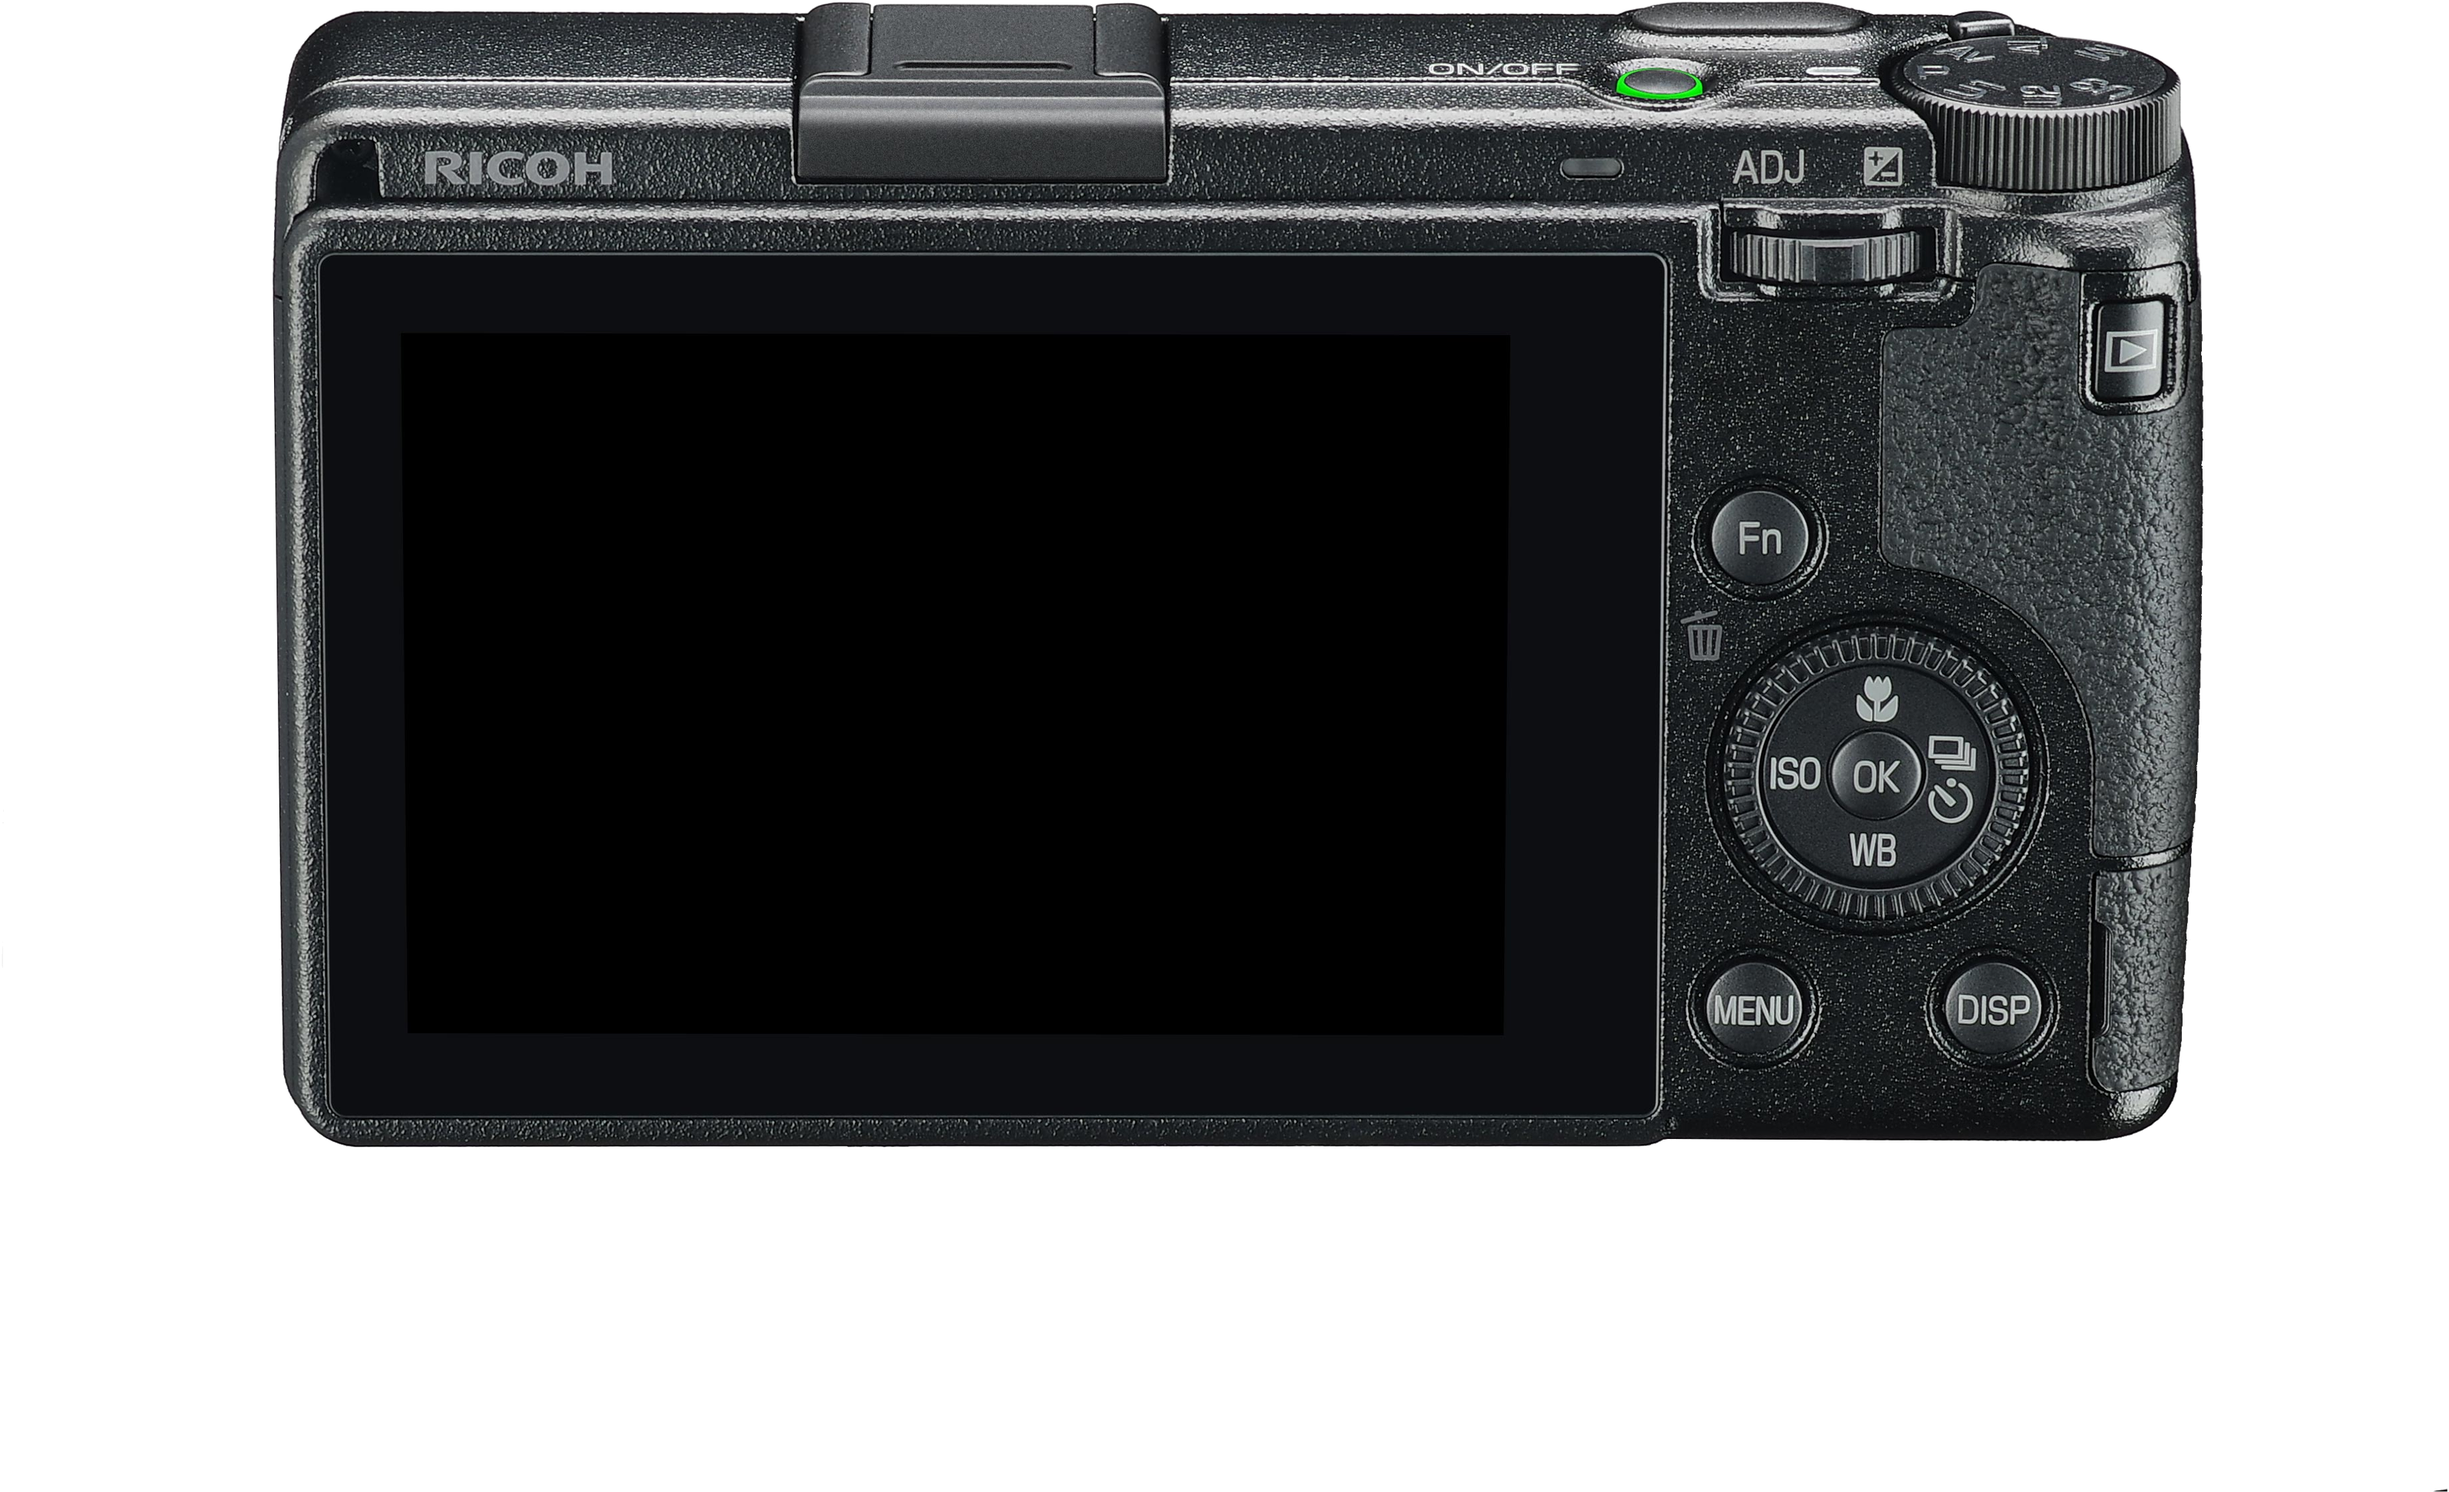
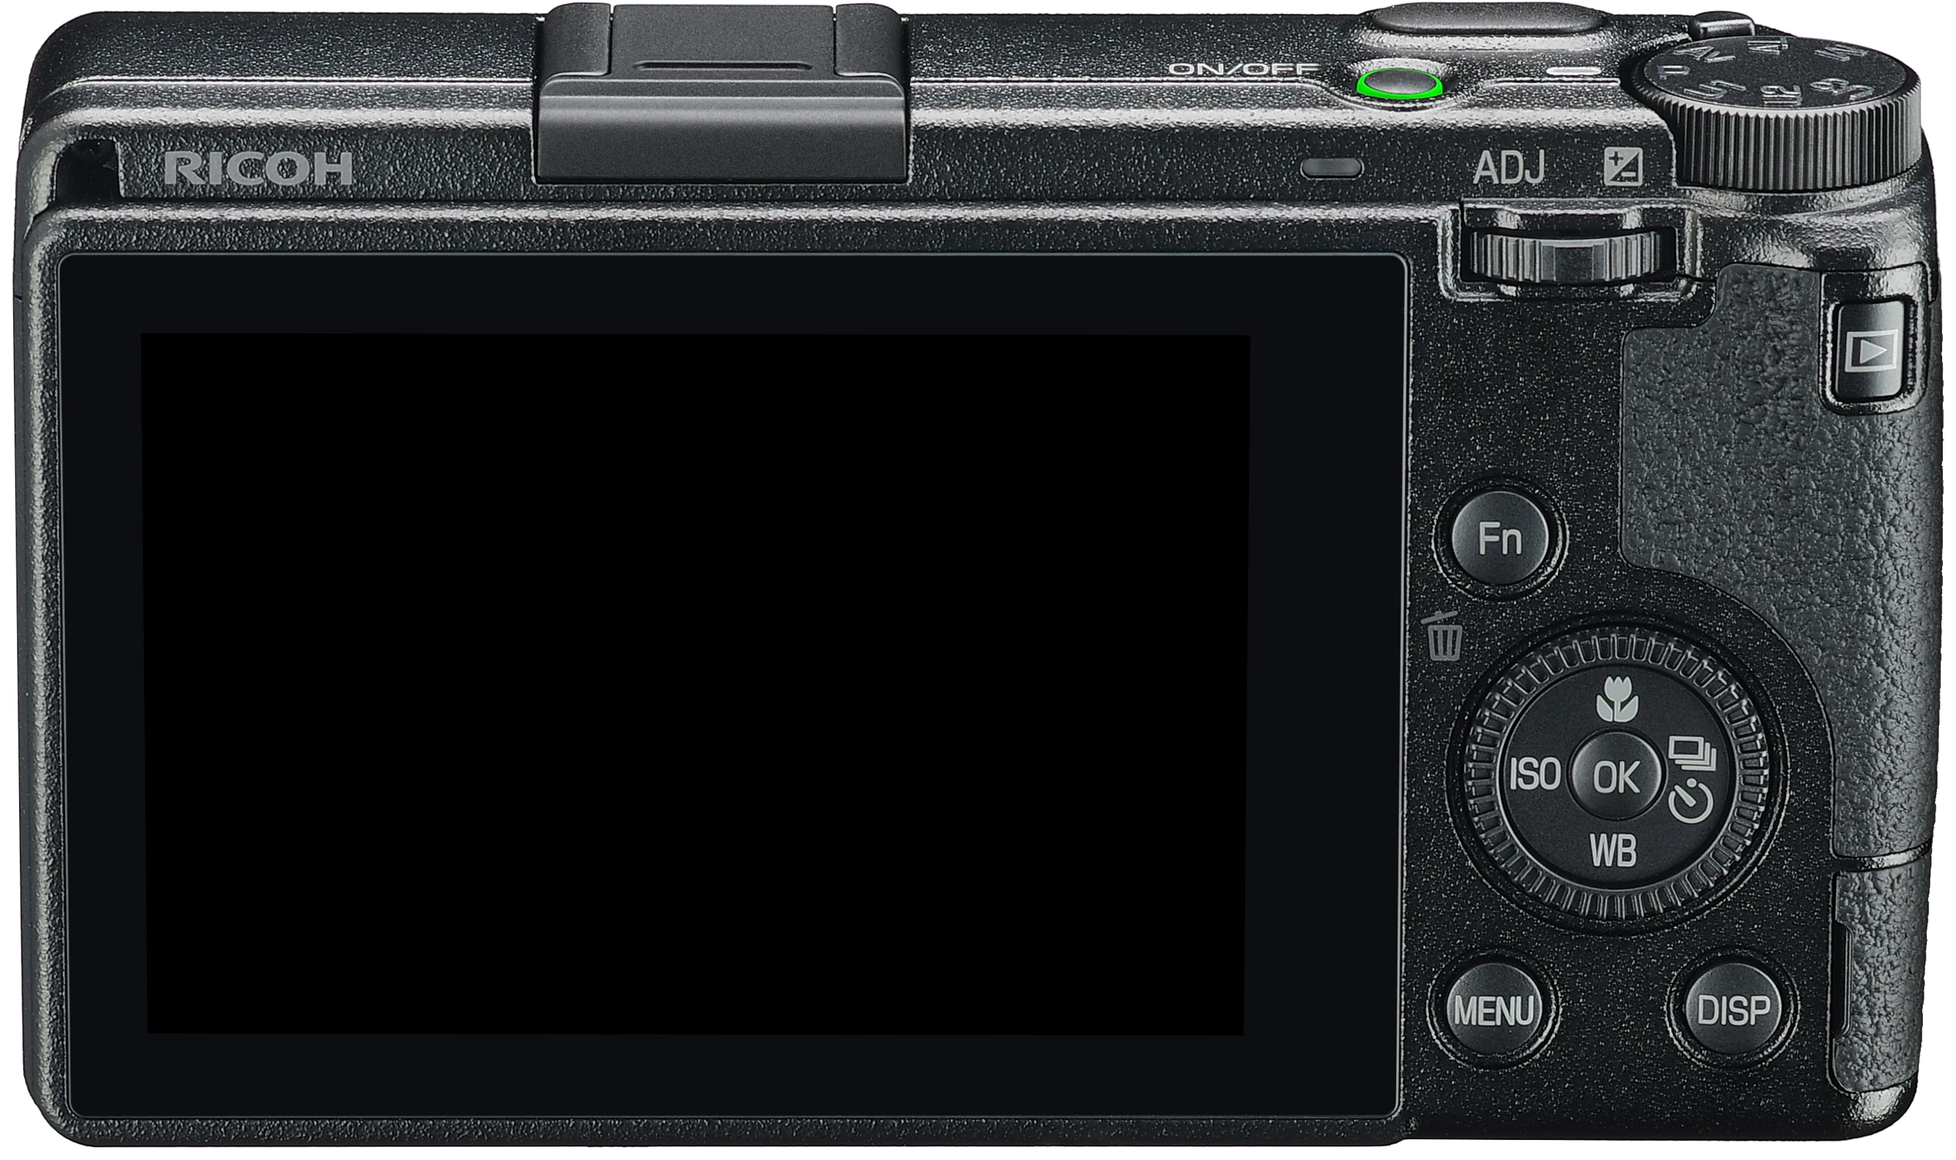
fix(camera): 重裁 GR III/GR IIIx 背面图，修复相机区偏上
两张素材底部残留约 23% 透明空白，右下角还有孤立杂点，导致旧的裁边逻辑
把整张图误判为已裁紧；版面按整图居中后相机视觉上偏上、尺寸也偏小。

- trim_assets.py 改为按 alpha/白底差异 + 行/列占用率求内容边界，忽略噪点；
  新增 --audit / --force，裁剪时同步平移 screen.quad 与 screen.opening
- 重裁 ricoh gr3 / gr3x（3191x1944 -> 2548x1511），更新 catalog 尺寸与屏幕标注

diff --git a/tools/trim_assets.py b/tools/trim_assets.py
@@ -1,12 +1,16 @@
 #!/usr/bin/env python3
-"""裁掉相机背面图四周的白边，让版面紧凑（参考样图相机占比大）。
+"""裁掉相机背面图四周的空白，让版面紧凑并让机身真正居中。
 
-- 白边判定：从四边向内扫描「接近纯白」的行/列
+- 内容判定：有透明底时按 alpha，白底图按「与纯白的差值」
+- 抗噪：按行/列占用率（≥1%，至少 8 像素）判定内容边界，
+  远处一两个孤立的噪点不会再被当成机身，把整张图「焊」在原地
 - 首次运行把原图备份为 back_untrimmed.<ext>
-- 裁剪后同步更新 meta.json 的 width/height 和 screen.quad（平移坐标）
+- 裁剪后同步更新 meta.json 的 width/height、screen.quad 与 screen.opening
 - 裁剪过度（比如把机身裁掉）会拒绝执行并告警
 
-用法：tools/trim_assets.py [brand/slug ...] [--pad 20]
+用法：
+  tools/trim_assets.py [brand/slug ...] [--pad 20] [--force]
+  tools/trim_assets.py --audit          # 只体检：打印每台机身的居中偏移，不改文件
 """
 import json
 import os
@@ -17,71 +21,123 @@ from PIL import Image, ImageChops
 ROOT = os.path.dirname(os.path.dirname(os.path.abspath(__file__)))
 ASSETS = os.path.join(ROOT, "assets", "cameras")
 
-WHITE = 245  # 判定白边的灰度阈值
+WHITE = 245  # 白底图的「白」阈值（灰度）
+ALPHA = 16   # 透明底图的「有内容」阈值（低于此的淡投影尾迹忽略）
+OCCUPANCY = 0.01  # 一行/一列至少 1% 像素有内容，才算机身，忽略孤立噪点
+MIN_OCCUPANCY = 8  # 小图兜底：至少 8 个像素
+
+
+def content_mask(img: Image.Image) -> Image.Image:
+    """返回内容掩码（L 模式，255 = 有内容）。"""
+    if img.mode != "RGBA":
+        img = img.convert("RGBA")
+    alpha = img.getchannel("A")
+    if alpha.getextrema()[0] < 250:
+        # 透明底：alpha 就是内容
+        return alpha.point(lambda v: 255 if v > ALPHA else 0)
+    # 白底：与纯白做差
+    gray = img.convert("L")
+    bg = Image.new("L", gray.size, 255)
+    diff = ImageChops.difference(gray, bg)
+    return diff.point(lambda v: 255 if v > (255 - WHITE) else 0)
+
+
+def _occupied_flags(mask: Image.Image, minimum: int) -> list:
+    """逐行判断该行是否有 >= minimum 个内容像素。"""
+    w, h = mask.size
+    data = mask.tobytes()
+    return [data[y * w:(y + 1) * w].count(255) >= minimum for y in range(h)]
+
+
+def content_bbox(img: Image.Image):
+    """内容包围盒 (x1, y1, x2, y2)；忽略稀疏噪点，无内容返回 None。"""
+    mask = content_mask(img)
+    w, h = mask.size
+    rows = _occupied_flags(mask, max(MIN_OCCUPANCY, int(w * OCCUPANCY)))
+    cols = _occupied_flags(mask.transpose(Image.Transpose.TRANSPOSE),
+                           max(MIN_OCCUPANCY, int(h * OCCUPANCY)))
+    ys = [i for i, filled in enumerate(rows) if filled]
+    xs = [i for i, filled in enumerate(cols) if filled]
+    if not ys or not xs:
+        return None
+    return xs[0], ys[0], xs[-1] + 1, ys[-1] + 1
 
 
 def trim(img: Image.Image, pad: int):
-    """返回 (裁剪后的图, dx, dy)。"""
-    gray = img.convert("L")
-    # 与全白图做差，得到非白内容的 bbox
-    bg = Image.new("L", gray.size, 255)
-    diff = ImageChops.difference(gray, bg)
-    # 差值阈值化，去掉 JPEG 噪点
-    mask = diff.point(lambda v: 255 if v > (255 - WHITE) else 0)
-    bbox = mask.getbbox()
+    """返回 (裁剪矩形, 内容 bbox)；内容为空返回 (None, None)。"""
+    bbox = content_bbox(img)
     if bbox is None:
-        return None
-    x1, y1, x2, y2 = bbox
+        return None, None
     w, h = img.size
-    x1 = max(0, x1 - pad)
-    y1 = max(0, y1 - pad)
-    x2 = min(w, x2 + pad)
-    y2 = min(h, y2 + pad)
-    # 拒绝裁掉超过 60% 面积（防止误判）
+    x1 = max(0, bbox[0] - pad)
+    y1 = max(0, bbox[1] - pad)
+    x2 = min(w, bbox[2] + pad)
+    y2 = min(h, bbox[3] + pad)
+    # 拒绝裁掉超过 75% 面积（防止误判）
     if (x2 - x1) * (y2 - y1) < w * h * 0.25:
-        return None
-    return img.crop((x1, y1, x2, y2)), x1, y1
+        return None, bbox
+    return (x1, y1, x2, y2), bbox
 
 
-def process(camdir: str, pad: int) -> bool:
+def _center_offset(bbox, size):
+    """内容中心相对整图中心的偏移（像素）。"""
+    w, h = size
+    return ((bbox[0] + bbox[2]) / 2 - w / 2,
+            (bbox[1] + bbox[3]) / 2 - h / 2)
+
+
+def process(camdir: str, pad: int, force: bool, audit: bool) -> bool:
     meta_path = os.path.join(camdir, "meta.json")
     if not os.path.exists(meta_path):
         return False
     with open(meta_path) as f:
         meta = json.load(f)
-    if meta.get("trimmed"):
-        print(f"[skip] {os.path.relpath(camdir, ASSETS)}: 已裁剪过")
+    rel = os.path.relpath(camdir, ASSETS)
+    if meta.get("trimmed") and not force and not audit:
+        print(f"[skip] {rel}: 已裁剪过（--force 可重裁）")
         return False
     img_name = meta.get("image", "back.jpg")
     img_path = os.path.join(camdir, img_name)
     if not os.path.exists(img_path):
-        print(f"[skip] {os.path.relpath(camdir, ASSETS)}: 无图")
+        print(f"[skip] {rel}: 无图")
         return False
 
-    img = Image.open(img_path).convert("RGB")
-    result = trim(img, pad)
-    if result is None:
-        print(f"[miss] {os.path.relpath(camdir, ASSETS)}: 无法自动裁剪")
+    img = Image.open(img_path)
+    if img.mode not in ("RGB", "RGBA"):
+        img = img.convert("RGBA")
+    rect, bbox = trim(img, pad)
+    if rect is None:
+        print(f"[miss] {rel}: 无法自动裁剪")
         return False
-    cropped, dx, dy = result
-    if cropped.size == img.size:
-        print(f"[skip] {os.path.relpath(camdir, ASSETS)}: 无需裁剪")
+    x1, y1, x2, y2 = rect
+    off = _center_offset(bbox, img.size)
+    if audit:
+        print(f"[audit] {rel}: {img.size[0]}x{img.size[1]} "
+              f"内容 bbox={bbox} 居中偏移=({off[0]:+.0f}, {off[1]:+.0f})")
+        return False
+    if (x2 - x1, y2 - y1) == img.size:
+        print(f"[skip] {rel}: 无需裁剪")
         return False
 
-    # 备份原图
+    cropped = img.crop(rect)
+    if cropped.mode == "RGBA":
+        cropped.save(img_path)  # PNG 保留透明与投影
+    else:
+        cropped.save(img_path, quality=95)
+
+    # 备份原图（同一目录，sync_assets.sh 只认 back.<ext>，不会打包备份）
     stem, ext = os.path.splitext(img_name)
     backup = os.path.join(camdir, f"{stem}_untrimmed{ext}")
     if not os.path.exists(backup):
-        os.rename(img_path, backup)
-    else:
-        os.remove(img_path)
-    cropped.save(img_path, quality=95)
+        img.save(backup)
 
     meta["width"], meta["height"] = cropped.size
-    if "screen" in meta:
-        meta["screen"]["quad"] = [
-            [round(x - dx, 1), round(y - dy, 1)] for x, y in meta["screen"]["quad"]
-        ]
+    for key in ("quad", "opening"):
+        quad = meta.get("screen", {}).get(key)
+        if quad:
+            meta["screen"][key] = [
+                [round(x - x1, 1), round(y - y1, 1)] for x, y in quad
+            ]
     meta["trimmed"] = True
     with open(meta_path, "w") as f:
         json.dump(meta, f, ensure_ascii=False, indent=2)
@@ -95,24 +151,33 @@ def process(camdir: str, pad: int) -> bool:
                   outline=(255, 0, 0), width=max(2, cropped.size[0] // 400))
         dbg.save(os.path.join(camdir, "screen_debug.png"))
 
-    print(f"[ok] {os.path.relpath(camdir, ASSETS)}: {img.size} -> {cropped.size}")
+    new_bbox = content_bbox(cropped)
+    new_off = _center_offset(new_bbox, cropped.size) if new_bbox else (0, 0)
+    print(f"[ok] {rel}: {img.size} -> {cropped.size} "
+          f"居中偏移 ({off[0]:+.0f}, {off[1]:+.0f}) -> "
+          f"({new_off[0]:+.0f}, {new_off[1]:+.0f})")
     return True
 
 
 def main():
     args = [a for a in sys.argv[1:] if not a.startswith("--")]
+    flags = [a for a in sys.argv[1:] if a.startswith("--")]
     pad = 16
-    for a in sys.argv[1:]:
+    for a in flags:
         if a.startswith("--pad"):
-            pad = int(a.split("=")[1]) if "=" in a else int(sys.argv[sys.argv.index(a) + 1])
+            pad = int(a.split("=")[1]) if "=" in a else int(
+                sys.argv[sys.argv.index(a) + 1])
+    force = "--force" in flags
+    audit = "--audit" in flags
     dirs = ([os.path.join(ASSETS, t) for t in args] if args else [
         os.path.join(ASSETS, b, s)
         for b in sorted(os.listdir(ASSETS))
         if os.path.isdir(os.path.join(ASSETS, b))
         for s in sorted(os.listdir(os.path.join(ASSETS, b)))
     ])
-    ok = sum(1 for d in dirs if os.path.isdir(d) and process(d, pad))
-    print(f"完成 {ok}/{len(dirs)}")
+    ok = sum(1 for d in dirs if os.path.isdir(d) and process(d, pad, force, audit))
+    if not audit:
+        print(f"完成 {ok}/{len(dirs)}")
 
 
 if __name__ == "__main__":
